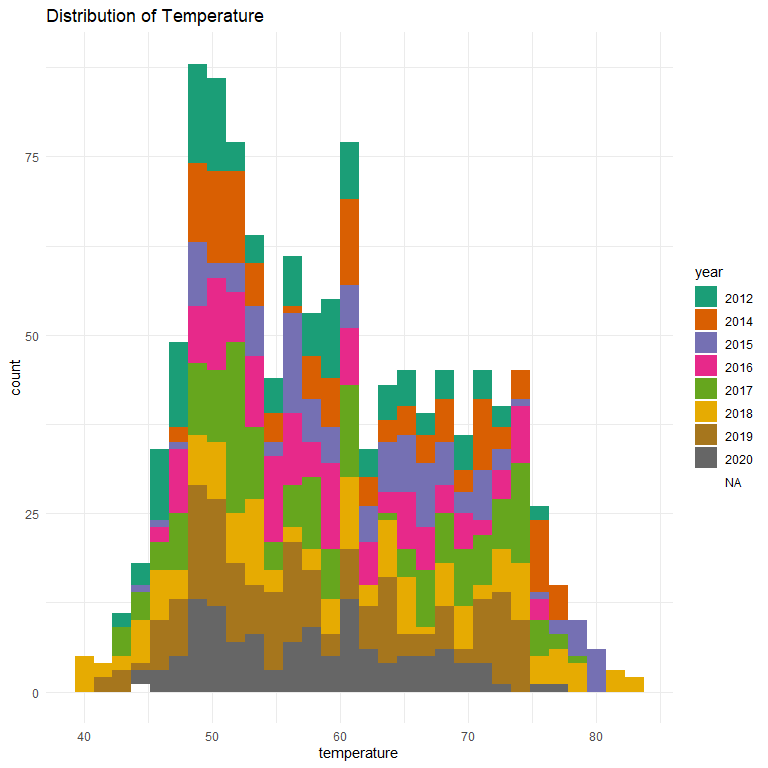
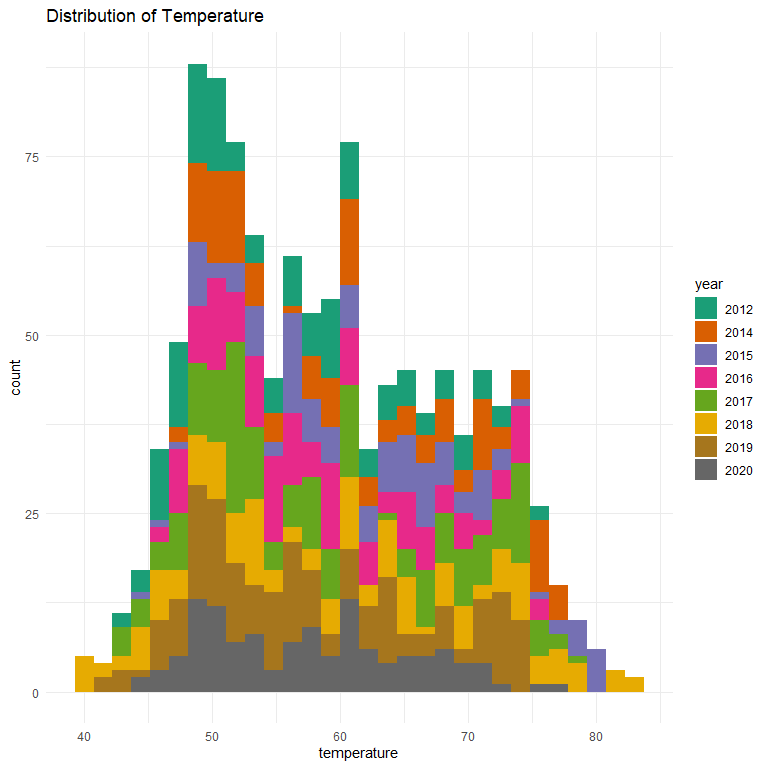
changed markdown

Changed region(s): [[0.9062, 0.3438, 1.0, 0.6562], [0.1562, 0.8438, 0.2188, 0.9062], [0.1562, 0.7188, 0.2188, 0.7812]]

diff --git a/scripts/mill-creek-upstream-passage-monitoring/mill-creek-upstream-passage-monitoring-qc-checklist.md b/scripts/mill-creek-upstream-passage-monitoring/mill-creek-upstream-passage-monitoring-qc-checklist.md
@@ -1,4 +1,4 @@
-deer-creek-adult-upstream-passage-monitoring-qc-checklist
+mill-creek-adult-upstream-passage-monitoring-qc-checklist
 ================
 Inigo Peng
 10/19/2021
@@ -13,7 +13,7 @@ Inigo Peng
 
 **Completeness of Record throughout timeframe:**
 
-Data Complete
+TODO
 
 **Sampling Location:**
 
@@ -21,7 +21,7 @@ Data Complete
 
 **Data Contact:** [Matt Johnson](mailto:Matt.Johnson@wildlife.ca.gov)
 
-## Access Cloud Data
+TODO: Add issues, descriptions \#\# Access Cloud Data
 
 ``` r
 # Run Sys.setenv() to specify GCS_AUTH_FILE and GCS_DEFAULT_BUCKET before running
@@ -260,6 +260,7 @@ cleaner_data %>%
 
 ``` r
 cleaner_data %>% 
+  filter(date != is.na(date)) %>%
   mutate(year = as.factor(year(date))) %>% 
   ggplot(aes(x=temperature, fill = year))+
   scale_fill_brewer(palette = "Dark2")+
@@ -310,28 +311,28 @@ gcs_upload(mill_upstream_estimate,
            name = "adult-upstream-passage-monitoring/mill-creek/data/mill_upstream_estimate.csv")
 ```
 
-    ## i 2021-10-29 17:06:13 > File size detected as  48.6 Kb
+    ## i 2021-10-29 17:13:07 > File size detected as  48.6 Kb
 
-    ## i 2021-10-29 17:06:13 > Request Status Code:  400
+    ## i 2021-10-29 17:13:07 > Request Status Code:  400
 
     ## ! API returned: Cannot insert legacy ACL for an object when uniform bucket-level access is enabled. Read more at https://cloud.google.com/storage/docs/uniform-bucket-level-access - Retrying with predefinedAcl='bucketLevel'
 
-    ## i 2021-10-29 17:06:13 > File size detected as  48.6 Kb
+    ## i 2021-10-29 17:13:07 > File size detected as  48.6 Kb
 
     ## ==Google Cloud Storage Object==
     ## Name:                adult-upstream-passage-monitoring/mill-creek/data/mill_upstream_estimate.csv 
     ## Type:                csv 
     ## Size:                48.6 Kb 
-    ## Media URL:           https://www.googleapis.com/download/storage/v1/b/jpe-dev-bucket/o/adult-upstream-passage-monitoring%2Fmill-creek%2Fdata%2Fmill_upstream_estimate.csv?generation=1635552372538385&alt=media 
+    ## Media URL:           https://www.googleapis.com/download/storage/v1/b/jpe-dev-bucket/o/adult-upstream-passage-monitoring%2Fmill-creek%2Fdata%2Fmill_upstream_estimate.csv?generation=1635552786434878&alt=media 
     ## Download URL:        https://storage.cloud.google.com/jpe-dev-bucket/adult-upstream-passage-monitoring%2Fmill-creek%2Fdata%2Fmill_upstream_estimate.csv 
     ## Public Download URL: https://storage.googleapis.com/jpe-dev-bucket/adult-upstream-passage-monitoring%2Fmill-creek%2Fdata%2Fmill_upstream_estimate.csv 
     ## Bucket:              jpe-dev-bucket 
-    ## ID:                  jpe-dev-bucket/adult-upstream-passage-monitoring/mill-creek/data/mill_upstream_estimate.csv/1635552372538385 
+    ## ID:                  jpe-dev-bucket/adult-upstream-passage-monitoring/mill-creek/data/mill_upstream_estimate.csv/1635552786434878 
     ## MD5 Hash:            3NUfhMFRD9TCkOInm3D7OA== 
     ## Class:               STANDARD 
-    ## Created:             2021-10-30 00:06:12 
-    ## Updated:             2021-10-30 00:06:12 
-    ## Generation:          1635552372538385 
+    ## Created:             2021-10-30 00:13:06 
+    ## Updated:             2021-10-30 00:13:06 
+    ## Generation:          1635552786434878 
     ## Meta Generation:     1 
-    ## eTag:                CJH4tLHr8PMCEAE= 
+    ## eTag:                CL6W4/bs8PMCEAE= 
     ## crc32c:              4WbcBQ==
